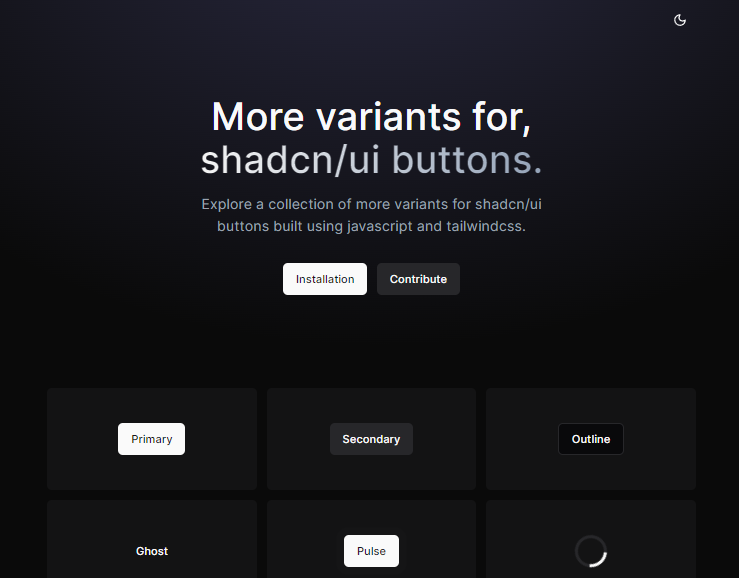
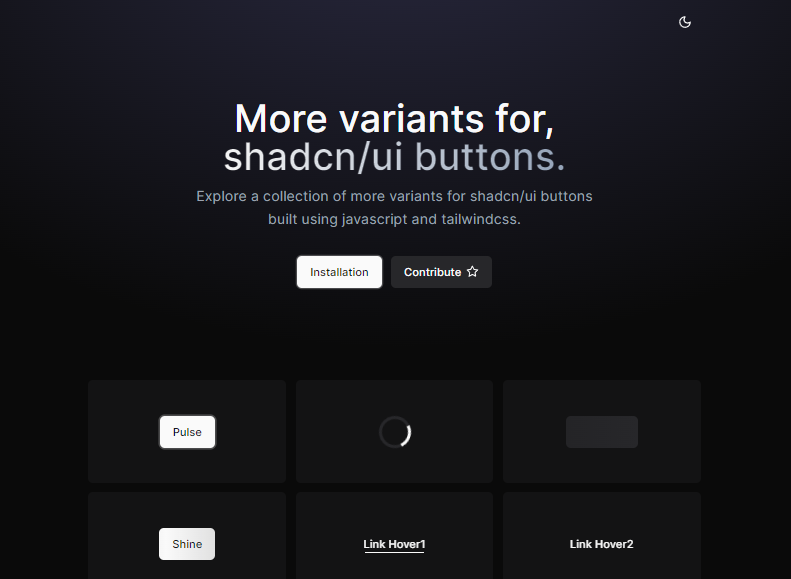
[]

diff --git a/app/page.js b/app/page.js
@@ -11,7 +11,7 @@ export default function Page() {
       </header>
       <section className="py-14 px-6">
         <div className="flex items-center justify-center flex-col">
-          <h2 className="text-center text-3xl font-medium text-gray-900 dark:text-gray-50 sm:text-5xl">More variants for, <span className="animate-text-gradient inline-flex bg-gradient-to-r from-neutral-900 via-slate-500 to-neutral-500 bg-[200%_auto] bg-clip-text text-transparent dark:from-neutral-100 dark:via-slate-400 dark:to-neutral-400">shadcn/ui buttons.</span></h2>
+          <h2 className="text-center max-w-3xl text-3xl font-medium text-gray-900 dark:text-gray-50 sm:text-5xl">More variants for, <span className="animate-text-gradient inline-flex bg-gradient-to-r from-neutral-900 via-slate-500 to-neutral-500 bg-[200%_auto] bg-clip-text text-transparent dark:from-neutral-100 dark:via-slate-400 dark:to-neutral-400">shadcn/ui buttons.</span></h2>
           <p className="max-w-sm sm:max-w-lg text-center text-sm sm:text-lg text-gray-600 dark:text-gray-400 mt-3">Explore a collection of more variants for shadcn/ui buttons built using javascript and tailwindcss.</p>
           <div className="flex items-center gap-3 mt-8">
             <Button variant="pulse" asChild><Link href="https://github.com/r2hu1/more-shadcn-buttons/blob/master/README.md">Installation</Link></Button>
